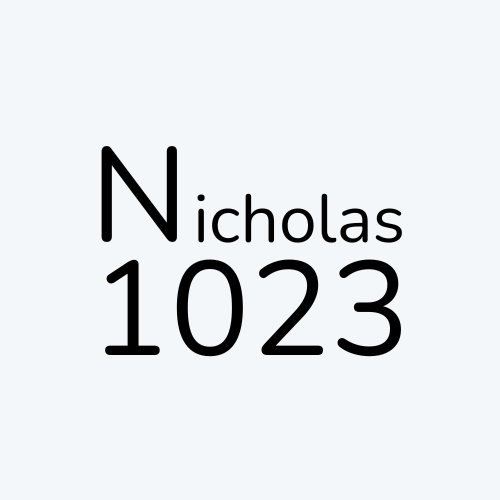
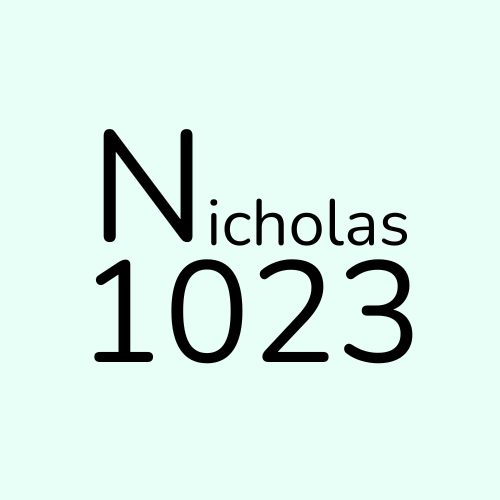
Update colours

Changed region(s): [[0.18, 0.24, 0.84, 0.75], [0.18, 0.51, 0.33, 0.75]]

diff --git a/styles.css b/styles.css
@@ -18,7 +18,7 @@ body {
   flex-direction: column;
   padding-top: 40px;
   color: #000000;
-  background-color: #f4f7fa;
+  background-color: #e8fff8;
   transition: background 0.3s, color 0.3s;
 }
 
@@ -31,7 +31,7 @@ nav {
   display: flex;
   align-items: center;
   justify-content: flex-start;
-  background-color: #f4f7fa;
+  background-color: #e8fff8;
   padding: 10px;
   box-shadow: 0 2px 5px rgba(0, 0, 0, 0.1);
   color: #000000;
@@ -76,7 +76,7 @@ main p {
 }
 
 .intro-icon {
-  background-color: #f4f7fa;
+  background-color: #e8fff8;
   display: flex;
   justify-content: center;
   align-items: center;
@@ -93,7 +93,7 @@ main p {
 
 footer {
   text-align: center;
-  background-color: #f4f7fa;
+  background-color: #e8fff8;
   padding: 20px;
   box-shadow: 0 2px 5px rgba(0, 0, 0, 0.1);
 }
